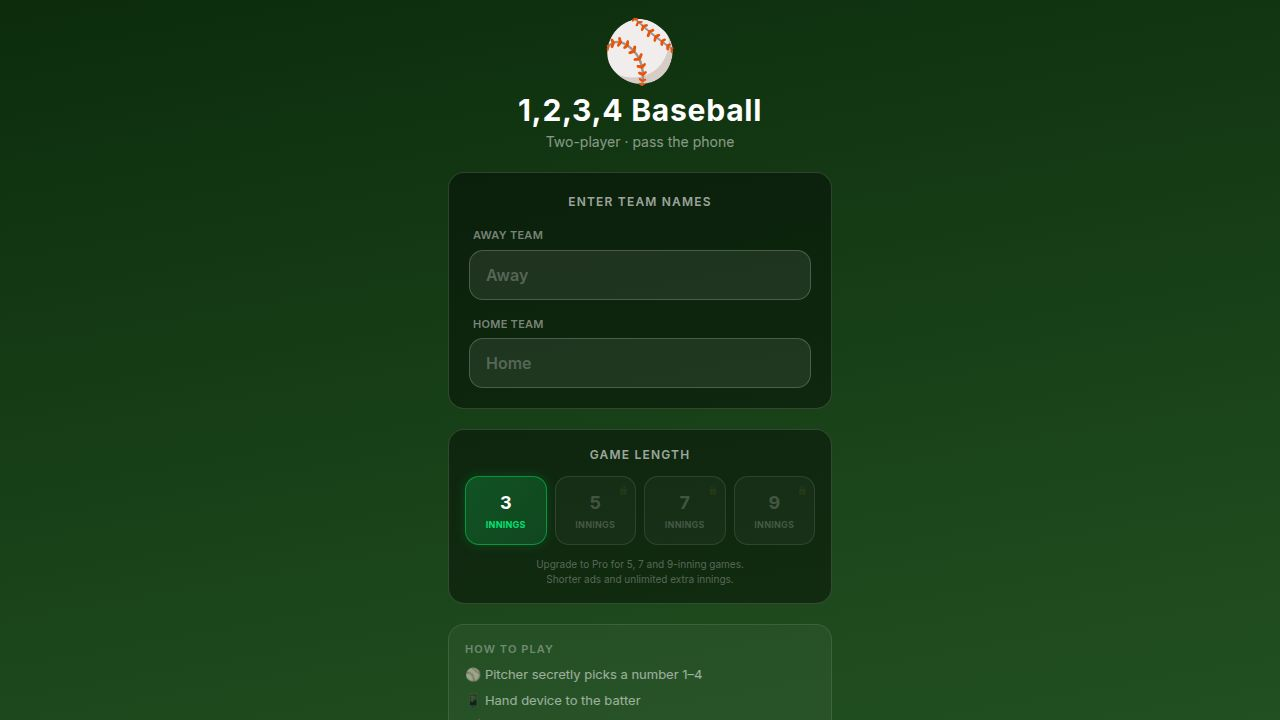
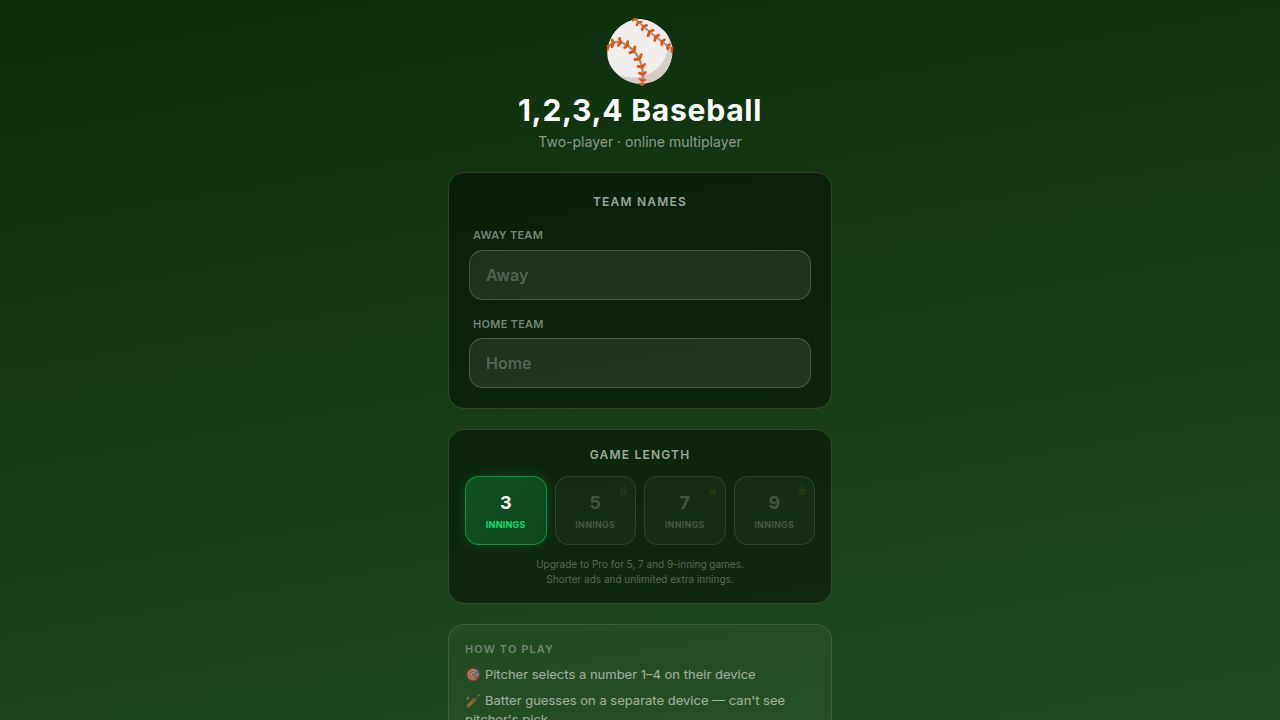
Allow opponents to enter their own team name when joining a game
Update game logic and UI to enable guest players to specify their team name during online game lobby setup, overriding the host's default home team name.

Replit-Commit-Author: Agent
Replit-Commit-Session-Id: d6fadc31-5914-4408-b79d-6500f2745043
Replit-Commit-Checkpoint-Type: full_checkpoint
Replit-Commit-Event-Id: 5c505368-b393-4c0c-9283-19034b93382f
Replit-Commit-Screenshot-Url: https://storage.googleapis.com/screenshot-production-us-central1/2c34a014-1047-472d-b95a-c57c394864d4/d6fadc31-5914-4408-b79d-6500f2745043/wvDewZs
Replit-Helium-Checkpoint-Created: true

diff --git a/artifacts/baseball-game/src/pages/Setup.tsx b/artifacts/baseball-game/src/pages/Setup.tsx
@@ -5,7 +5,7 @@ interface SetupProps {
   isPaid: boolean;
   onStart: (awayName: string, homeName: string, innings: number) => void;
   onCreateOnline: (awayName: string, homeName: string, innings: number) => void;
-  onJoinOnline: (code: string) => void;
+  onJoinOnline: (code: string, teamName: string) => void;
 }
 
 const INNING_OPTIONS = [3, 5, 7, 9];
@@ -16,6 +16,7 @@ export function Setup({ isPaid, onStart, onCreateOnline, onJoinOnline }: SetupPr
   const [innings, setInnings] = useState(3);
   const [onlinePanel, setOnlinePanel] = useState<'closed' | 'join'>('closed');
   const [joinCode, setJoinCode] = useState('');
+  const [joinTeamName, setJoinTeamName] = useState('');
 
   const away = awayName.trim() || 'Away';
   const home = homeName.trim() || 'Home';
@@ -34,8 +35,10 @@ export function Setup({ isPaid, onStart, onCreateOnline, onJoinOnline }: SetupPr
   const handleJoin = () => {
     if (joinCode.trim().length < 4) return;
     unlockAudio();
-    onJoinOnline(joinCode.trim());
+    onJoinOnline(joinCode.trim(), joinTeamName.trim() || 'Home');
   };
+
+  const appUrl = typeof window !== 'undefined' ? window.location.origin : '';
 
   return (
     <div
@@ -57,7 +60,7 @@ export function Setup({ isPaid, onStart, onCreateOnline, onJoinOnline }: SetupPr
           style={{ background: 'rgba(0,0,0,0.4)' }}
         >
           <p className="text-white/60 text-[12px] uppercase tracking-widest font-semibold text-center">
-            Enter Team Names
+            Team Names
           </p>
 
           <div className="flex flex-col gap-1.5">
@@ -176,6 +179,24 @@ export function Setup({ isPaid, onStart, onCreateOnline, onJoinOnline }: SetupPr
             <p className="text-[11px] text-white/40 uppercase tracking-widest font-semibold text-center">
               🌐 Play Online
             </p>
+
+            {/* Online instructions */}
+            <div
+              className="rounded-xl p-3 flex flex-col gap-1.5"
+              style={{ background: 'rgba(255,255,255,0.04)' }}
+            >
+              <p className="text-[11px] text-white/35 uppercase tracking-widest font-semibold mb-0.5">How to Start</p>
+              <ol className="text-[12px] text-white/50 flex flex-col gap-1 list-none">
+                <li><span className="text-white/30 font-bold mr-1">1.</span>Enter your team name above</li>
+                <li><span className="text-white/30 font-bold mr-1">2.</span>Tap <span className="text-blue-400/80">Create Game</span> to get a room code</li>
+                <li><span className="text-white/30 font-bold mr-1">3.</span>Text or email the code + this link to your opponent:<br />
+                  <span className="text-white/40 break-all">{appUrl}</span>
+                </li>
+                <li><span className="text-white/30 font-bold mr-1">4.</span>They open the link, enter your code, and tap <span className="text-amber-400/80">Join Game</span></li>
+                <li><span className="text-white/30 font-bold mr-1">5.</span>Game starts automatically — no download required</li>
+              </ol>
+            </div>
+
             <div className="flex gap-2">
               <button
                 onClick={handleCreateOnline}
@@ -198,39 +219,50 @@ export function Setup({ isPaid, onStart, onCreateOnline, onJoinOnline }: SetupPr
             </div>
 
             {onlinePanel === 'join' && (
-              <div className="flex gap-2">
+              <div className="flex flex-col gap-2">
                 <input
                   type="text"
-                  value={joinCode}
-                  onChange={e => setJoinCode(e.target.value.toUpperCase().replace(/[^A-Z0-9]/g, ''))}
-                  placeholder="Enter room code"
-                  maxLength={6}
-                  className="flex-1 rounded-xl px-4 py-3 text-[16px] font-bold text-white placeholder-white/25 outline-none border border-white/20 focus:border-amber-400 transition-colors tracking-widest uppercase"
+                  value={joinTeamName}
+                  onChange={e => setJoinTeamName(e.target.value)}
+                  placeholder="Your team name"
+                  maxLength={16}
+                  className="w-full rounded-xl px-4 py-3 text-[16px] font-semibold text-white placeholder-white/25 outline-none border border-white/20 focus:border-green-400 transition-colors"
                   style={{ background: 'rgba(255,255,255,0.08)' }}
-                  onKeyDown={e => { if (e.key === 'Enter') handleJoin(); }}
                   autoFocus
                 />
-                <button
-                  onClick={handleJoin}
-                  disabled={joinCode.trim().length < 4}
-                  className={`px-5 py-3 rounded-xl font-bold text-[14px] transition-all border ${
-                    joinCode.trim().length >= 4
-                      ? 'border-transparent text-white active:scale-95'
-                      : 'border-white/10 text-white/25 cursor-not-allowed'
-                  }`}
-                  style={{
-                    background: joinCode.trim().length >= 4
-                      ? 'linear-gradient(135deg,#d97706,#b45309)'
-                      : 'rgba(255,255,255,0.04)',
-                  }}
-                >
-                  Join
-                </button>
+                <div className="flex gap-2">
+                  <input
+                    type="text"
+                    value={joinCode}
+                    onChange={e => setJoinCode(e.target.value.toUpperCase().replace(/[^A-Z0-9]/g, ''))}
+                    placeholder="Room code"
+                    maxLength={6}
+                    className="flex-1 rounded-xl px-4 py-3 text-[16px] font-bold text-white placeholder-white/25 outline-none border border-white/20 focus:border-amber-400 transition-colors tracking-widest uppercase"
+                    style={{ background: 'rgba(255,255,255,0.08)' }}
+                    onKeyDown={e => { if (e.key === 'Enter') handleJoin(); }}
+                  />
+                  <button
+                    onClick={handleJoin}
+                    disabled={joinCode.trim().length < 4}
+                    className={`px-5 py-3 rounded-xl font-bold text-[14px] transition-all border ${
+                      joinCode.trim().length >= 4
+                        ? 'border-transparent text-white active:scale-95'
+                        : 'border-white/10 text-white/25 cursor-not-allowed'
+                    }`}
+                    style={{
+                      background: joinCode.trim().length >= 4
+                        ? 'linear-gradient(135deg,#d97706,#b45309)'
+                        : 'rgba(255,255,255,0.04)',
+                    }}
+                  >
+                    Join
+                  </button>
+                </div>
               </div>
             )}
 
             <p className="text-[10px] text-white/25 text-center">
-              Create a room and share the code · Player 1 is Away team
+              Host = Away team · Opponent picks their own team name when joining
             </p>
           </div>
         </div>

diff --git a/artifacts/baseball-game/src/lib/pushNotifications.ts b/artifacts/baseball-game/src/lib/pushNotifications.ts
@@ -1,10 +1,15 @@
 const VAPID_PUBLIC_KEY = import.meta.env.VITE_VAPID_PUBLIC_KEY as string | undefined;
 
-function urlBase64ToUint8Array(base64String: string): Uint8Array {
+function urlBase64ToUint8Array(base64String: string): Uint8Array<ArrayBuffer> {
   const padding = '='.repeat((4 - (base64String.length % 4)) % 4);
   const base64 = (base64String + padding).replace(/-/g, '+').replace(/_/g, '/');
   const rawData = atob(base64);
-  return Uint8Array.from([...rawData].map((c) => c.charCodeAt(0)));
+  const buffer = new ArrayBuffer(rawData.length);
+  const view = new Uint8Array(buffer);
+  for (let i = 0; i < rawData.length; i++) {
+    view[i] = rawData.charCodeAt(i);
+  }
+  return view;
 }
 
 export function isPushSupported(): boolean {

diff --git a/artifacts/baseball-game/src/App.tsx b/artifacts/baseball-game/src/App.tsx
@@ -10,7 +10,7 @@ type Screen =
   | { type: 'setup' }
   | { type: 'solo'; teams: { away: string; home: string; innings: number } }
   | { type: 'online-lobby'; mode: 'host'; roomCode: string; setup: RoomSetup }
-  | { type: 'online-lobby'; mode: 'guest'; roomCode: string }
+  | { type: 'online-lobby'; mode: 'guest'; roomCode: string; guestTeamName: string }
   | { type: 'online-game'; roomCode: string; role: 'host' | 'guest'; setup: RoomSetup };
 
 function App() {
@@ -34,6 +34,7 @@ function App() {
         mode={screen.mode}
         roomCode={screen.roomCode}
         setup={screen.mode === 'host' ? (screen as { type: 'online-lobby'; mode: 'host'; roomCode: string; setup: RoomSetup }).setup : undefined}
+        guestTeamName={screen.mode === 'guest' ? (screen as { type: 'online-lobby'; mode: 'guest'; roomCode: string; guestTeamName: string }).guestTeamName : undefined}
         onGameReady={(setup, roomCode, role) =>
           setScreen({ type: 'online-game', roomCode, role, setup })
         }
@@ -69,8 +70,8 @@ function App() {
           setup: { awayTeam: away, homeTeam: home, innings },
         });
       }}
-      onJoinOnline={(code) =>
-        setScreen({ type: 'online-lobby', mode: 'guest', roomCode: code.toUpperCase() })
+      onJoinOnline={(code, teamName) =>
+        setScreen({ type: 'online-lobby', mode: 'guest', roomCode: code.toUpperCase(), guestTeamName: teamName })
       }
     />
   );

diff --git a/artifacts/baseball-game/src/lib/roomLogic.ts b/artifacts/baseball-game/src/lib/roomLogic.ts
@@ -139,7 +139,7 @@ export async function createRoom(code: string, setup: RoomSetup): Promise<void> 
   });
 }
 
-export async function joinRoom(code: string): Promise<'ok' | 'not-found' | 'full'> {
+export async function joinRoom(code: string, guestTeamName?: string): Promise<'ok' | 'not-found' | 'full'> {
   const snap = await get(roomRef(code));
   if (!snap.exists()) return 'not-found';
   const data = snap.val() as Record<string, unknown>;
@@ -147,6 +147,9 @@ export async function joinRoom(code: string): Promise<'ok' | 'not-found' | 'full
   if (players.guest) return 'full';
   if (data.phase !== 'lobby') return 'full';
   await update(ref(getDb(), `rooms/${code}/players`), { guest: true });
+  if (guestTeamName) {
+    await update(ref(getDb(), `rooms/${code}/setup`), { homeTeam: guestTeamName });
+  }
   return 'ok';
 }
 

diff --git a/artifacts/baseball-game/src/pages/OnlineLobby.tsx b/artifacts/baseball-game/src/pages/OnlineLobby.tsx
@@ -9,11 +9,12 @@ interface OnlineLobbyProps {
   mode: 'host' | 'guest';
   roomCode: string;
   setup?: RoomSetup;
+  guestTeamName?: string;
   onGameReady: (setup: RoomSetup, roomCode: string, role: 'host' | 'guest') => void;
   onLeave: () => void;
 }
 
-export function OnlineLobby({ mode, roomCode, setup, onGameReady, onLeave }: OnlineLobbyProps) {
+export function OnlineLobby({ mode, roomCode, setup, guestTeamName, onGameReady, onLeave }: OnlineLobbyProps) {
   const [status, setStatus] = useState<'connecting' | 'waiting' | 'error'>('connecting');
   const [errorMsg, setErrorMsg] = useState('');
   const [roomData, setRoomData] = useState<ParsedRoomDoc | null>(null);
@@ -31,7 +32,7 @@ export function OnlineLobby({ mode, roomCode, setup, onGameReady, onLeave }: Onl
         setStatus('waiting');
         return subscribeRoom(roomCode, setRoomData);
       } else {
-        const result = await joinRoom(roomCode);
+        const result = await joinRoom(roomCode, guestTeamName);
         if (result === 'not-found') {
           setStatus('error'); setErrorMsg('Room not found. Check the code and try again.');
           return;